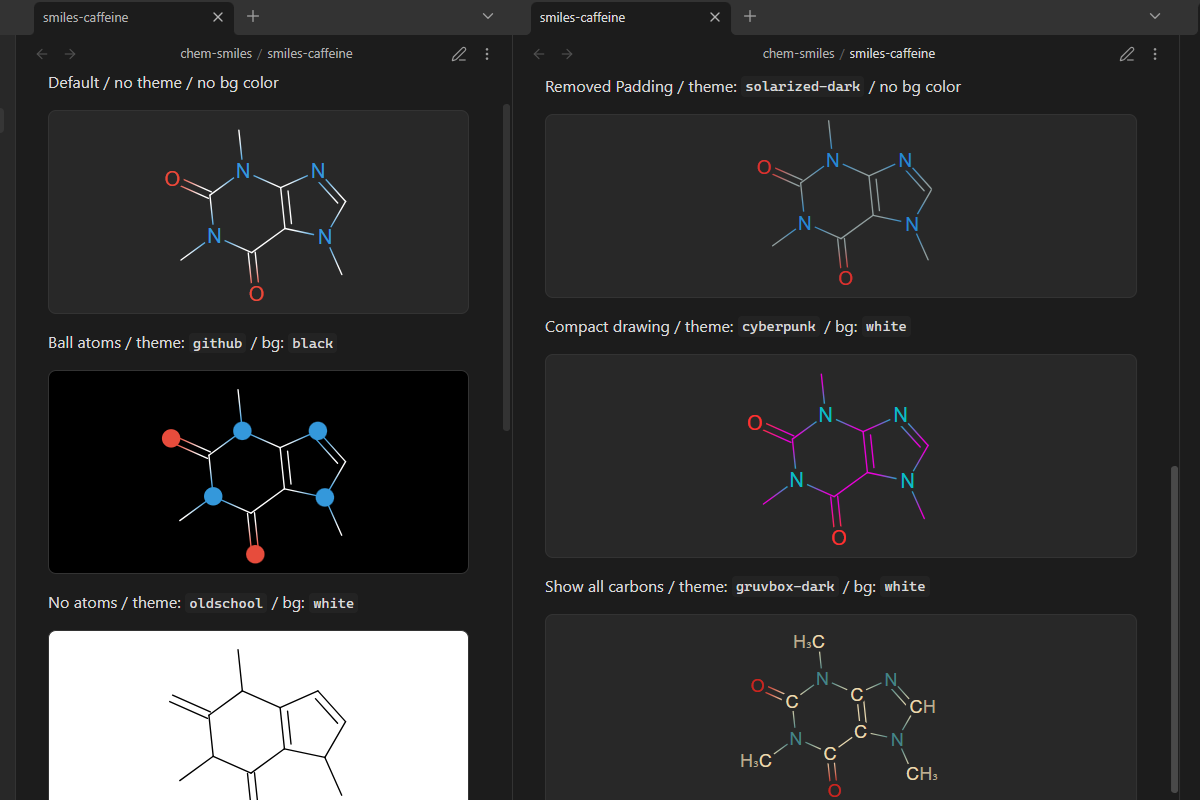
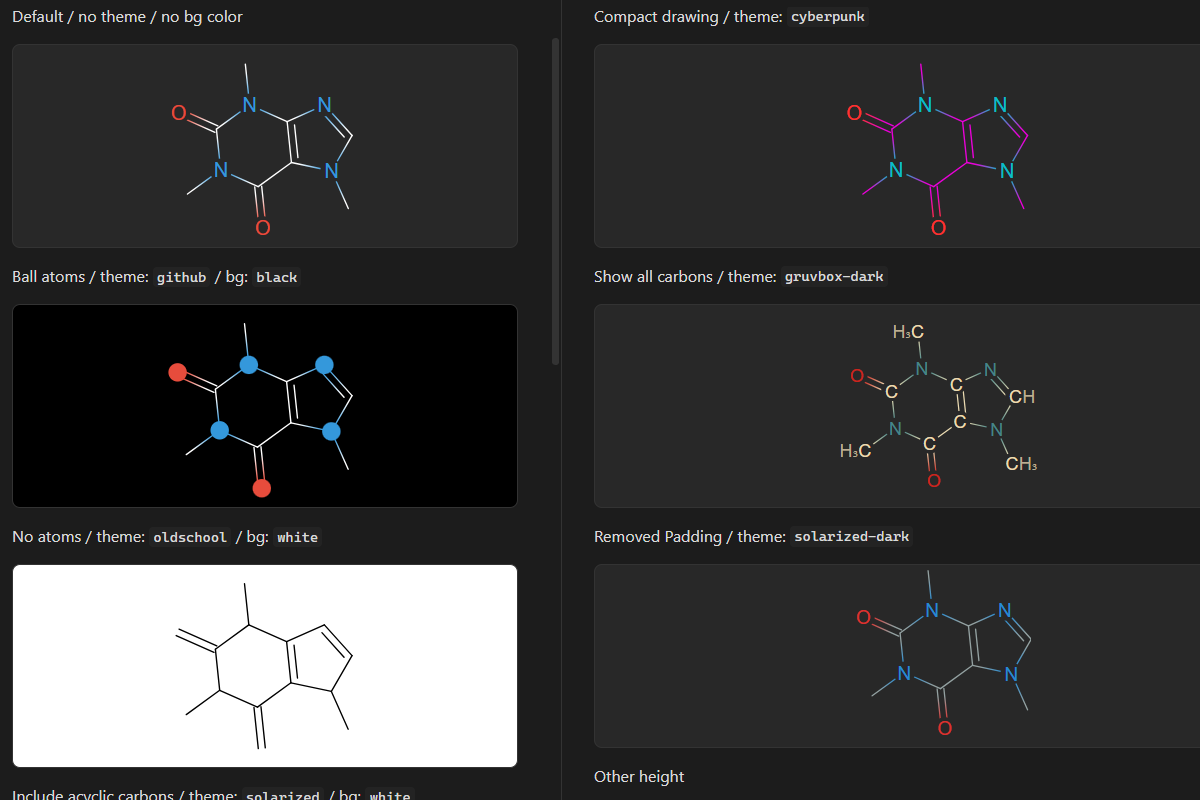
update settings

diff --git a/src/settings-view.ts b/src/settings-view.ts
@@ -107,13 +107,13 @@ export default class SmilesDrawerSettingsTab extends PluginSettingTab {
       })
     )
 
-    // /* TODO COMMENT OUT FOR PRODUCTION !! */
-    // new Setting(containerEl).setName('DEBUG ONLY: Reload plugin').setDesc('Redraws all diagrams. Necessary when code block identifier changes.')
-    // .addButton(button => button.setTooltip('Reload').setIcon('refresh-ccw').onClick(async () => {
-    //   await this.app.plugins.disablePlugin(this.plugin.manifest.id)
-    //   await this.app.plugins.enablePlugin(this.plugin.manifest.id)
-    //   Popup.ok('Plugin reloaded!')
-    // }))
+    /* TODO COMMENT OUT FOR PRODUCTION !! */
+    new Setting(containerEl).setName('DEBUG ONLY: Reload plugin').setDesc('Redraws all diagrams. Necessary when code block identifier changes.')
+    .addButton(button => button.setTooltip('Reload').setIcon('refresh-ccw').onClick(async () => {
+      await this.app.plugins.disablePlugin(this.plugin.manifest.id)
+      await this.app.plugins.enablePlugin(this.plugin.manifest.id)
+      Popup.ok('Plugin reloaded!')
+    }))
   }
 
   private addResetButton(containerEl: HTMLElement) {
